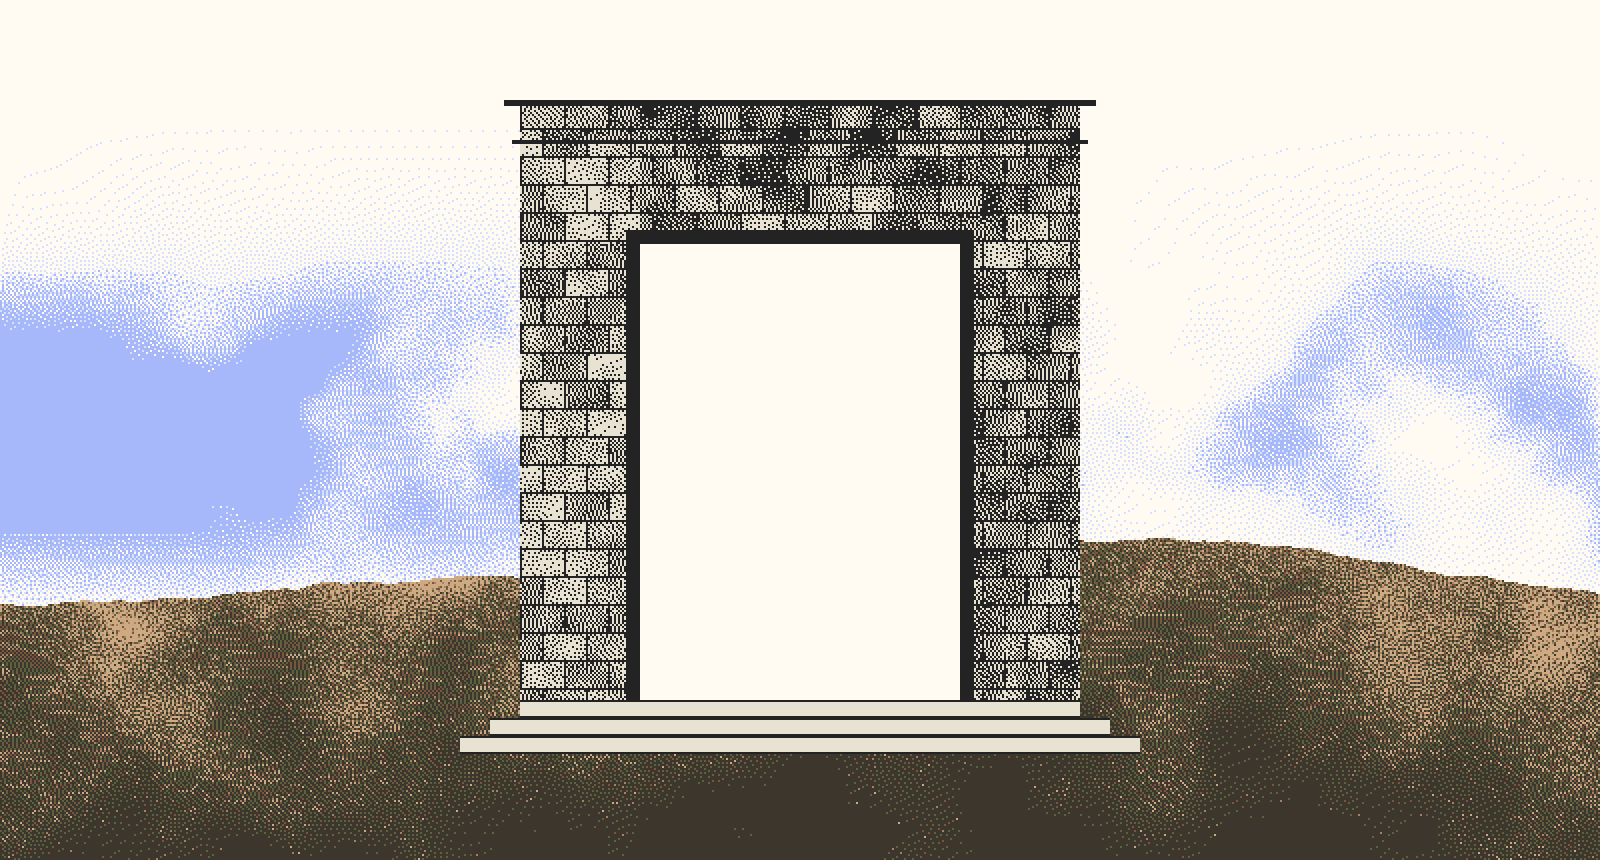
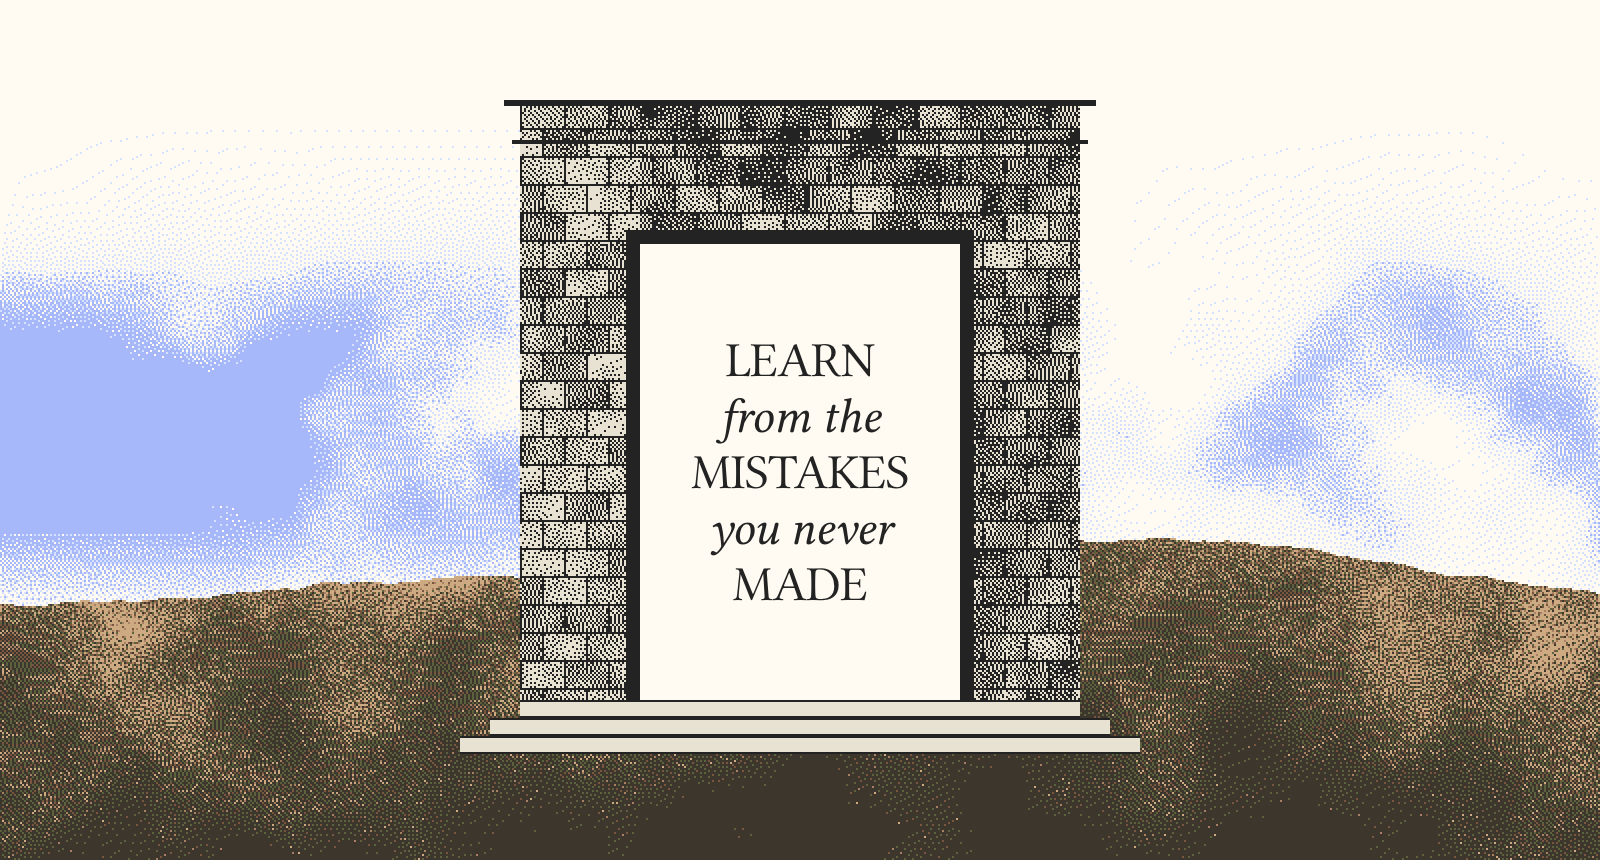
NODUS card: show the hero with its headline in the doorway

Changed region(s): [[0.4375, 0.393, 0.5625, 0.5744], [0.4375, 0.6047, 0.5625, 0.6349], [0.4375, 0.6651, 0.5312, 0.6953]]

diff --git a/index.html b/index.html
@@ -216,7 +216,7 @@
               <p class="wall-note">different words &rarr; same shape</p>
               <svg class="wall-arrow" viewBox="0 0 120 60" aria-hidden="true"><path d="M6 44 C30 8 78 6 108 30" /><path d="M96 22 L109 31 L94 36" /></svg>
               <figure class="plate plate-art">
-                <span class="frame"><img src="assets/scraps/nodus-hero.png" alt="A dithered stone gateway standing on a hill under a pale blue sky." style="object-position: 50% 40%; image-rendering: pixelated" loading="lazy" /></span>
+                <span class="frame"><img src="assets/scraps/nodus-hero.png" alt="A dithered stone gateway on a hill. In its doorway: LEARN from the MISTAKES you never MADE." style="object-position: 50% 40%" loading="lazy" /></span>
                 <figcaption><b>The gateway</b><span>NODUS home page &middot; original dithered art</span></figcaption>
               </figure>
             </div>
